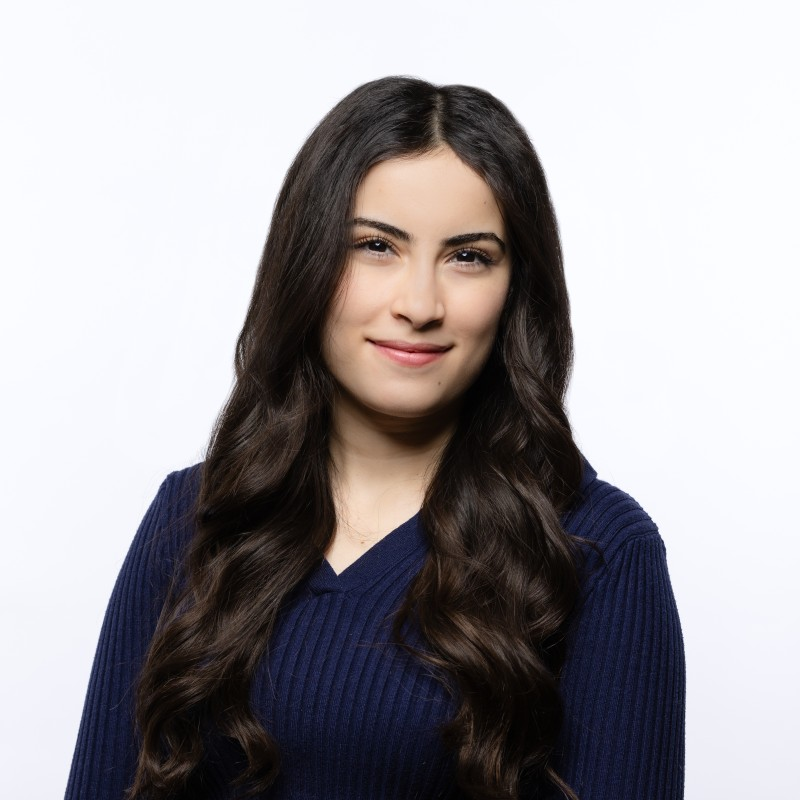
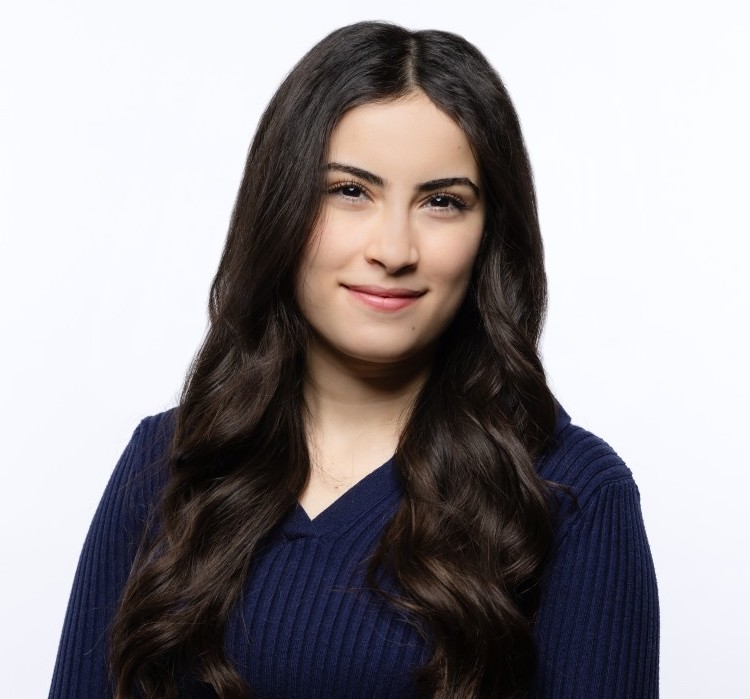
update index

Changed region(s): [[0.0613, 0.03, 0.8893, 1.0], [0.6747, 0.9614, 0.736, 1.0], [0.552, 0.5408, 0.5827, 0.5708]]

diff --git a/index.html b/index.html
@@ -127,9 +127,8 @@
               <p>
                 Human motion understanding is central to computer vision, yet
                 many models still degrade when motion patterns diverge from the
-                curated distributions seen in standard benchmarks. These gaps
-                become even more important in clinical settings, where subtle
-                movement deviations can carry meaningful diagnostic value.
+                curated distributions seen in standard benchmarks.
+                These gaps become even more pronounced in real-world settings, particularly in clinical contexts where subtle movement deviations can carry meaningful diagnostic value, but also extend to broader challenges such as realistic animation generation, coherent in-scene navigation, and physically plausible human–object interactions. In these scenarios, models often struggle to generalize beyond clean, isolated motions, leading to inconsistencies in long-horizon dynamics, poor adaptation to environmental constraints.
               </p>
               <p>
                 This workshop creates a meeting point for researchers working on
@@ -438,8 +437,9 @@
                 <h3>Submission types</h3>
                 <ul class="check-list">
                   <li>Full papers</li>
+                  <li>Short papers</li>
                   <li>Extended abstracts</li>
-                  <li>Poster presentations</li>
+                  <!-- <li>Poster presentations</li> -->
                   <!-- <li>Selected oral highlights</li> -->
                 </ul>
                 <div class="hero-actions">
@@ -570,7 +570,7 @@
             <div class="featured-person">
               <img
                 class="featured-person-photo"
-                src="assets/kimia_shaban.png"
+                src="assets/kimia_shaban.jpg"
                 alt="Portrait of Kimia Shaban"
               />
               <h3>
